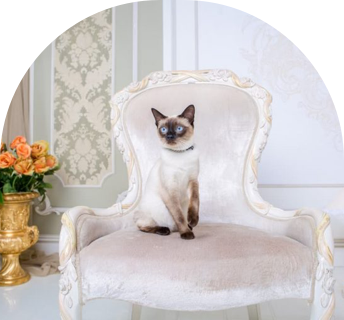
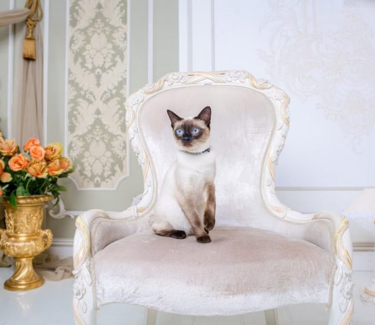
correction img

diff --git a/src/index.html b/src/index.html
@@ -89,31 +89,37 @@
               <h2 class="cats-title" id="cats">Cats</h2>
             </div>
             <div class="col-12 col-lg-4">
-              <img
-                class="cats"
-                src="img/img-cat-1.webp"
-                alt="Image de Remy de poisson de Pontonton."
-              />
+              <div class="cats">
+                <img
+                  class="cats-img"
+                  src="img/img-cat-1.webp"
+                  alt="Image de Remy de poisson de Pontonton."
+                />
+              </div>
             </div>
             <div class="col-12 col-lg-4 order-lg-1">
               <p class="names">Remy de poisson de Pontonton</p>
             </div>
             <div class="col-12 col-lg-4">
-              <img
-                class="cats"
-                src="img/img-cat-2.webp"
-                alt="Image de Jean-Louis de macaron de Pontonton."
-              />
+              <div class="cats">
+                <img
+                  class="cats-img"
+                  src="img/img-cat-2.webp"
+                  alt="Image de Jean-Louis de macaron de Pontonton."
+                />
+              </div>
             </div>
             <div class="col-12 col-lg-4 order-lg-2">
               <p class="names">Jean-Louis de macaron de Pontonton</p>
             </div>
             <div class="col-12 col-lg-4">
-              <img
-                class="cats"
-                src="img/img-cat-3.webp"
-                alt="Image de Linda de croissant de Pontonton"
-              />
+              <div class="cats">
+                <img
+                  class="cats-img"
+                  src="img/img-cat-3.webp"
+                  alt="Image de Linda de croissant de Pontonton"
+                />
+              </div>
             </div>
             <div class="col-12 col-lg-4 order-lg-3">
               <p class="names">Linda de croissant de Pontonton</p>
@@ -134,13 +140,15 @@
                 />
               </div>
               <div class="col-6 col-lg-4 offset-lg-1">
-                <p class="shop-paragraph">
-                  Taste our delicious coffee then take some home with you, with
-                  our home blend coffee cat coffee!
-                </p>
-                <div class="button-section">
-                  <div class="button-shop">
-                    <a href="index.html">Go to the shop</a>
+                <div class="shop-here">
+                  <p class="shop-paragraph">
+                    Taste our delicious coffee then take some home with you,
+                    with our home blend coffee cat coffee!
+                  </p>
+                  <div class="button-section">
+                    <div class="button-shop">
+                      <a href="index.html">Go to the shop</a>
+                    </div>
                   </div>
                 </div>
               </div>

diff --git a/src/scss/main.scss b/src/scss/main.scss
@@ -154,6 +154,14 @@ img {
   .introduction {
     margin-bottom: 86px;
   }
+
+  .line-separation {
+    border: 1px solid #22160b;
+  }
+
+  img {
+    border: 2px solid #22160b;
+  }
 }
 
 h2 {
@@ -257,12 +265,25 @@ h3 {
 
 .cats-container {
   margin-bottom: 40px;
+  display: flex;
+  flex-direction: row;
+  justify-content: center;
+  align-items: center;
+}
+
+.cats-img {
+  height: 100%;
+  border: none;
 }
 
 .cats {
   border-top-right-radius: 160px;
   border-top-left-radius: 160px;
+  height: 320px;
+  width: 344px;
   margin-bottom: 20px;
+  overflow: hidden;
+  border: 1px solid#22160b;
 }
 
 .names {
@@ -321,9 +342,15 @@ h3 {
   text-decoration: none;
 }
 
+.shop-here {
+  display: flex;
+  flex-direction: column;
+  justify-content: flex-end;
+}
+
 .shop-paragraph {
-  margin-bottom: 64px;
-  margin-top: 26px;
+  // margin-bottom: 64px;
+  // margin-top: 26px;
 }
 
 @media (min-width: 1024px) {
